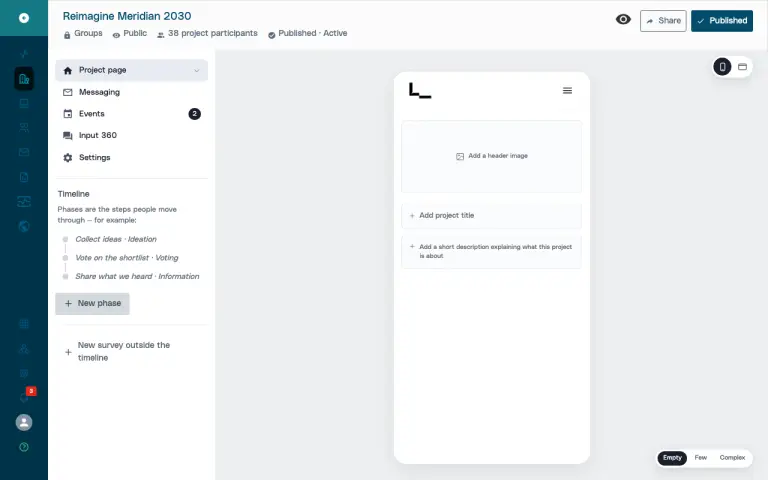
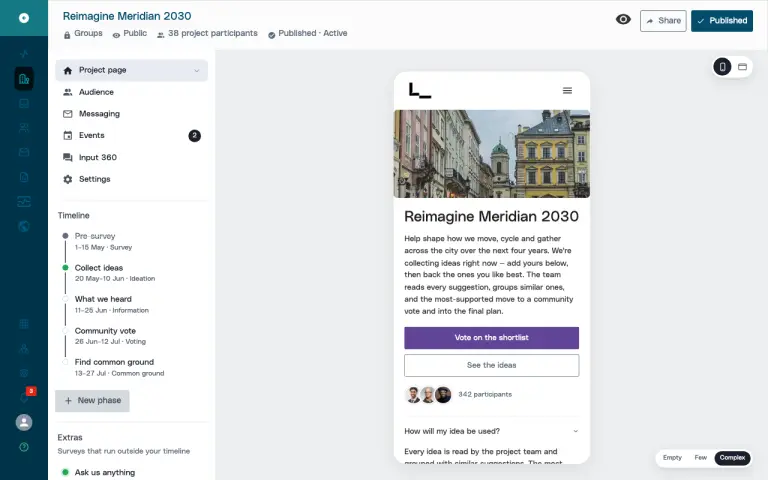
editor-builder-v2: default to Complex project state on load

diff --git a/parallel-participation/prototypes/parallel-editor-builder-v2/index.html b/parallel-participation/prototypes/parallel-editor-builder-v2/index.html
@@ -3030,9 +3030,9 @@
 
 <!-- ============ State switcher — compact, bottom-right ============ -->
 <div class="state-chip" role="group" aria-label="Project content state">
-  <button data-state="empty" class="on" onclick="setProjectState('empty', this)">Empty</button>
+  <button data-state="empty" onclick="setProjectState('empty', this)">Empty</button>
   <button data-state="few" onclick="setProjectState('few', this)">Few</button>
-  <button data-state="complex" onclick="setProjectState('complex', this)">Complex</button>
+  <button data-state="complex" class="on" onclick="setProjectState('complex', this)">Complex</button>
 </div>
 
 <script>
@@ -3474,8 +3474,8 @@
     setView('project', document.querySelector('[data-view="project"]'));
   }
 
-  // Open in the empty state by default (panel + phone preview).
-  setProjectState('empty', document.querySelector('.state-chip button[data-state="empty"]'));
+  // Open in the complex state by default (panel + phone preview).
+  setProjectState('complex', document.querySelector('.state-chip button[data-state="complex"]'));
 
   // ── Full front-office project page ────────────────────────────────────────
   // The Eye icon (top bar + content builder) opens the live FO project page. It
